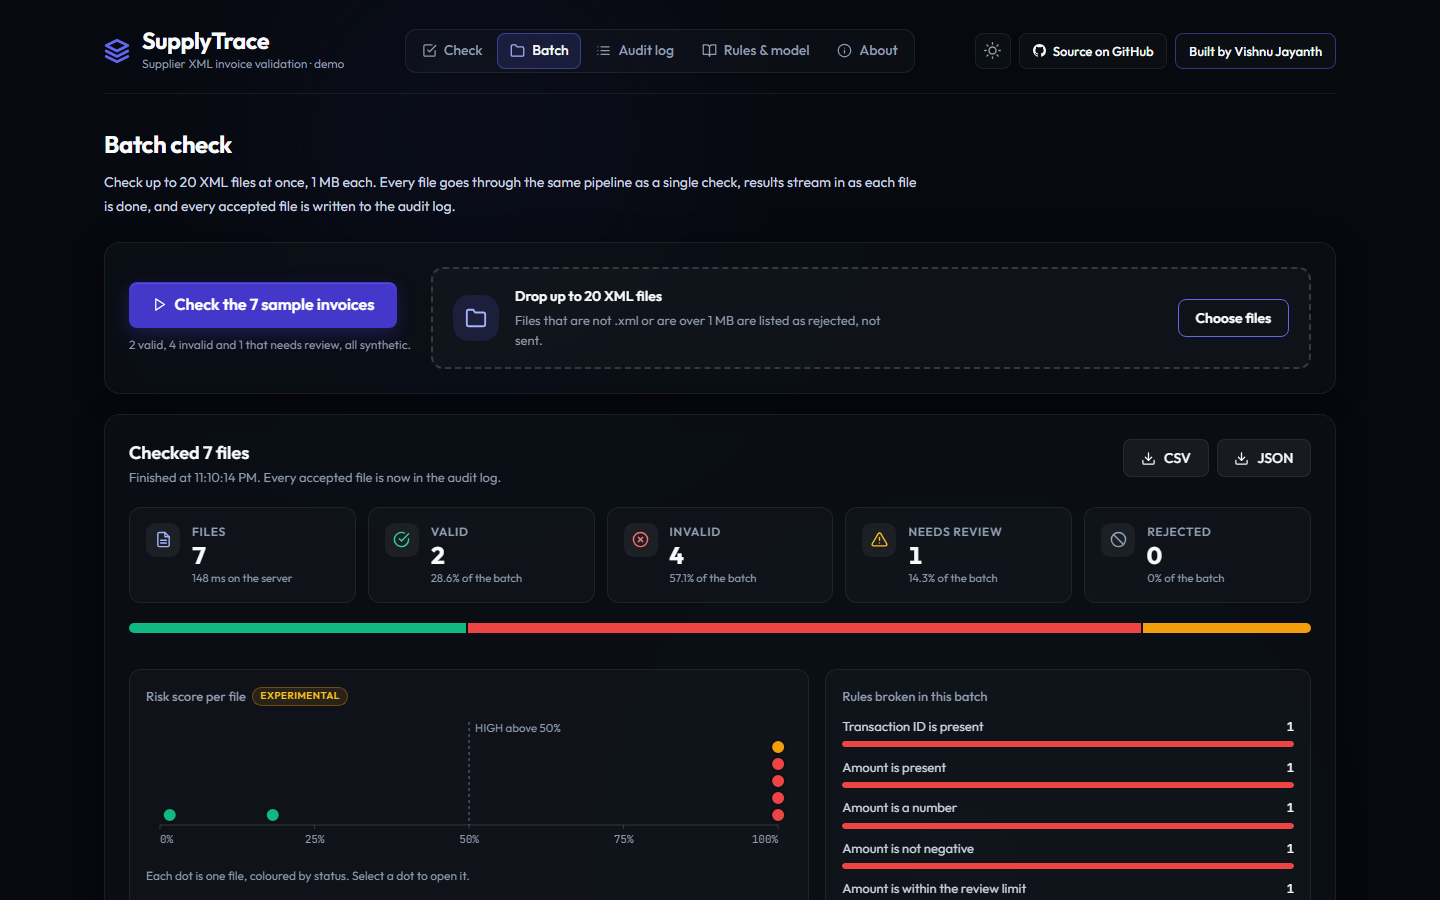
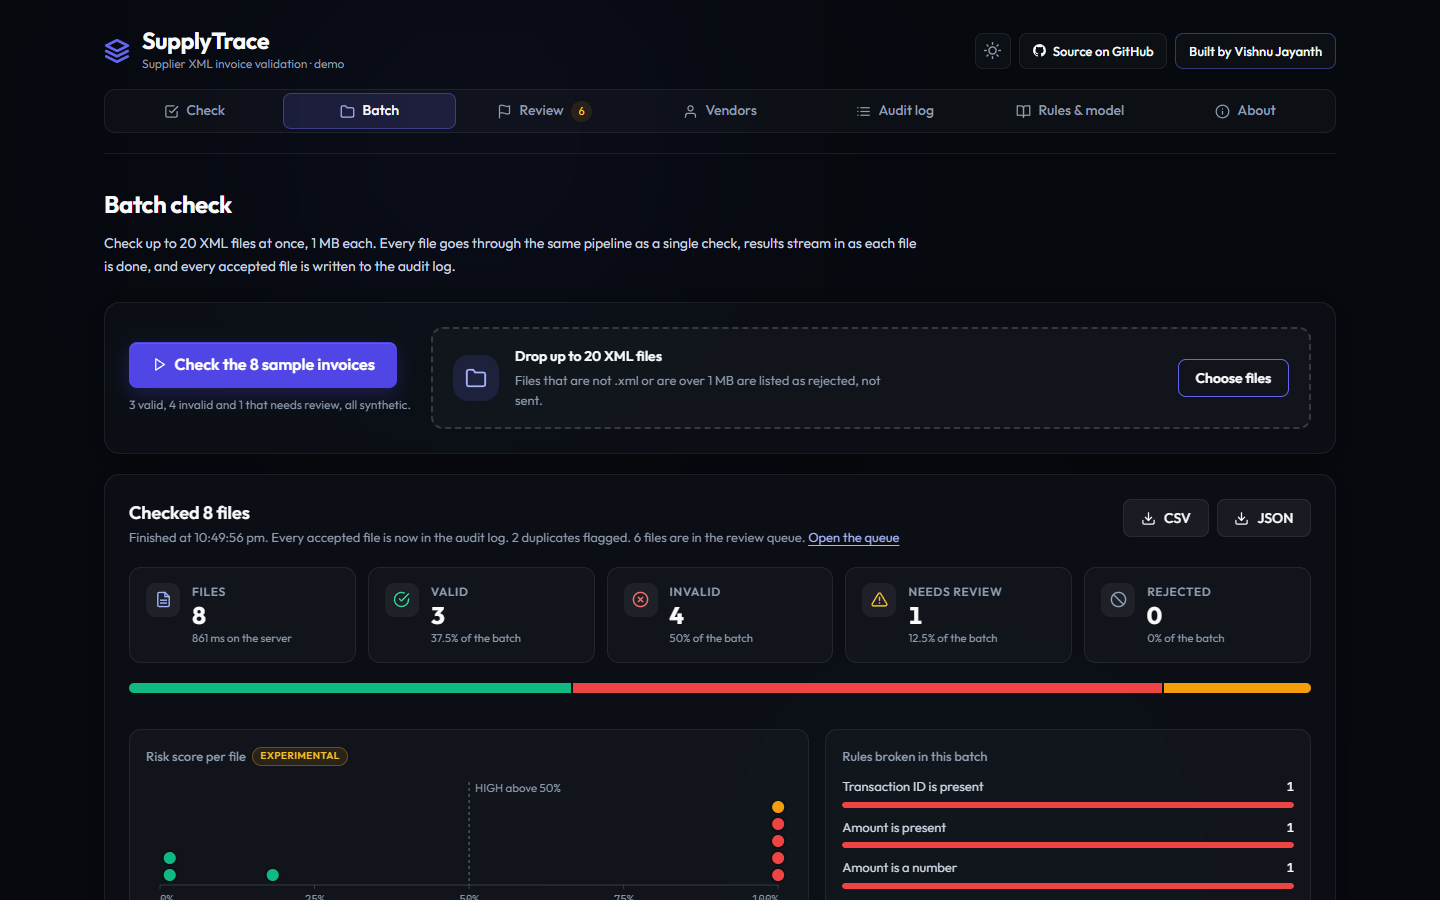
Show the eight samples in the README cover and reserve space for all eight sample buttons
The cover screenshot showed the old seven-sample batch, and the Check page reserved space for seven sample buttons, so the page shifted when the eighth loaded.

diff --git a/frontend/index.html b/frontend/index.html
@@ -229,7 +229,7 @@
                             <div class="sample-bar">
                                 <span class="sample-label" id="samples-label">Try a sample</span>
                                 <div class="sample-chips" id="sample-chips" role="group" aria-labelledby="samples-label" aria-busy="true">
-                                    <span class="skeleton skeleton-chip"></span><span class="skeleton skeleton-chip"></span><span class="skeleton skeleton-chip"></span><span class="skeleton skeleton-chip"></span><span class="skeleton skeleton-chip"></span><span class="skeleton skeleton-chip"></span><span class="skeleton skeleton-chip"></span>
+                                    <span class="skeleton skeleton-chip"></span><span class="skeleton skeleton-chip"></span><span class="skeleton skeleton-chip"></span><span class="skeleton skeleton-chip"></span><span class="skeleton skeleton-chip"></span><span class="skeleton skeleton-chip"></span><span class="skeleton skeleton-chip"></span><span class="skeleton skeleton-chip"></span>
                                 </div>
                                 <p class="sample-hint" id="sample-hint">Each sample is a synthetic UBL-style invoice. The dot shows the status it is built to get.</p>
                             </div>

diff --git a/README.md b/README.md
@@ -20,7 +20,7 @@ Everything in the demo is synthetic: the dashboard starts from a batch of 400 ge
 
 ![The SupplyTrace Payload Inspector checking an invoice whose amount is written as 12,50.00: the pipeline strip shows the time the server spent on each stage, the verdict is INVALID, and the rule checklist points at line 47](docs/screenshots/result.png)
 
-More screenshots: [dashboard](docs/screenshots/home.png), [batch check of the seven samples](docs/screenshots/cover.png), [mobile result](docs/screenshots/mobile.png).
+More screenshots: [dashboard](docs/screenshots/home.png), [batch check of the eight samples](docs/screenshots/cover.png), [mobile result](docs/screenshots/mobile.png).
 
 ## What it does
 
